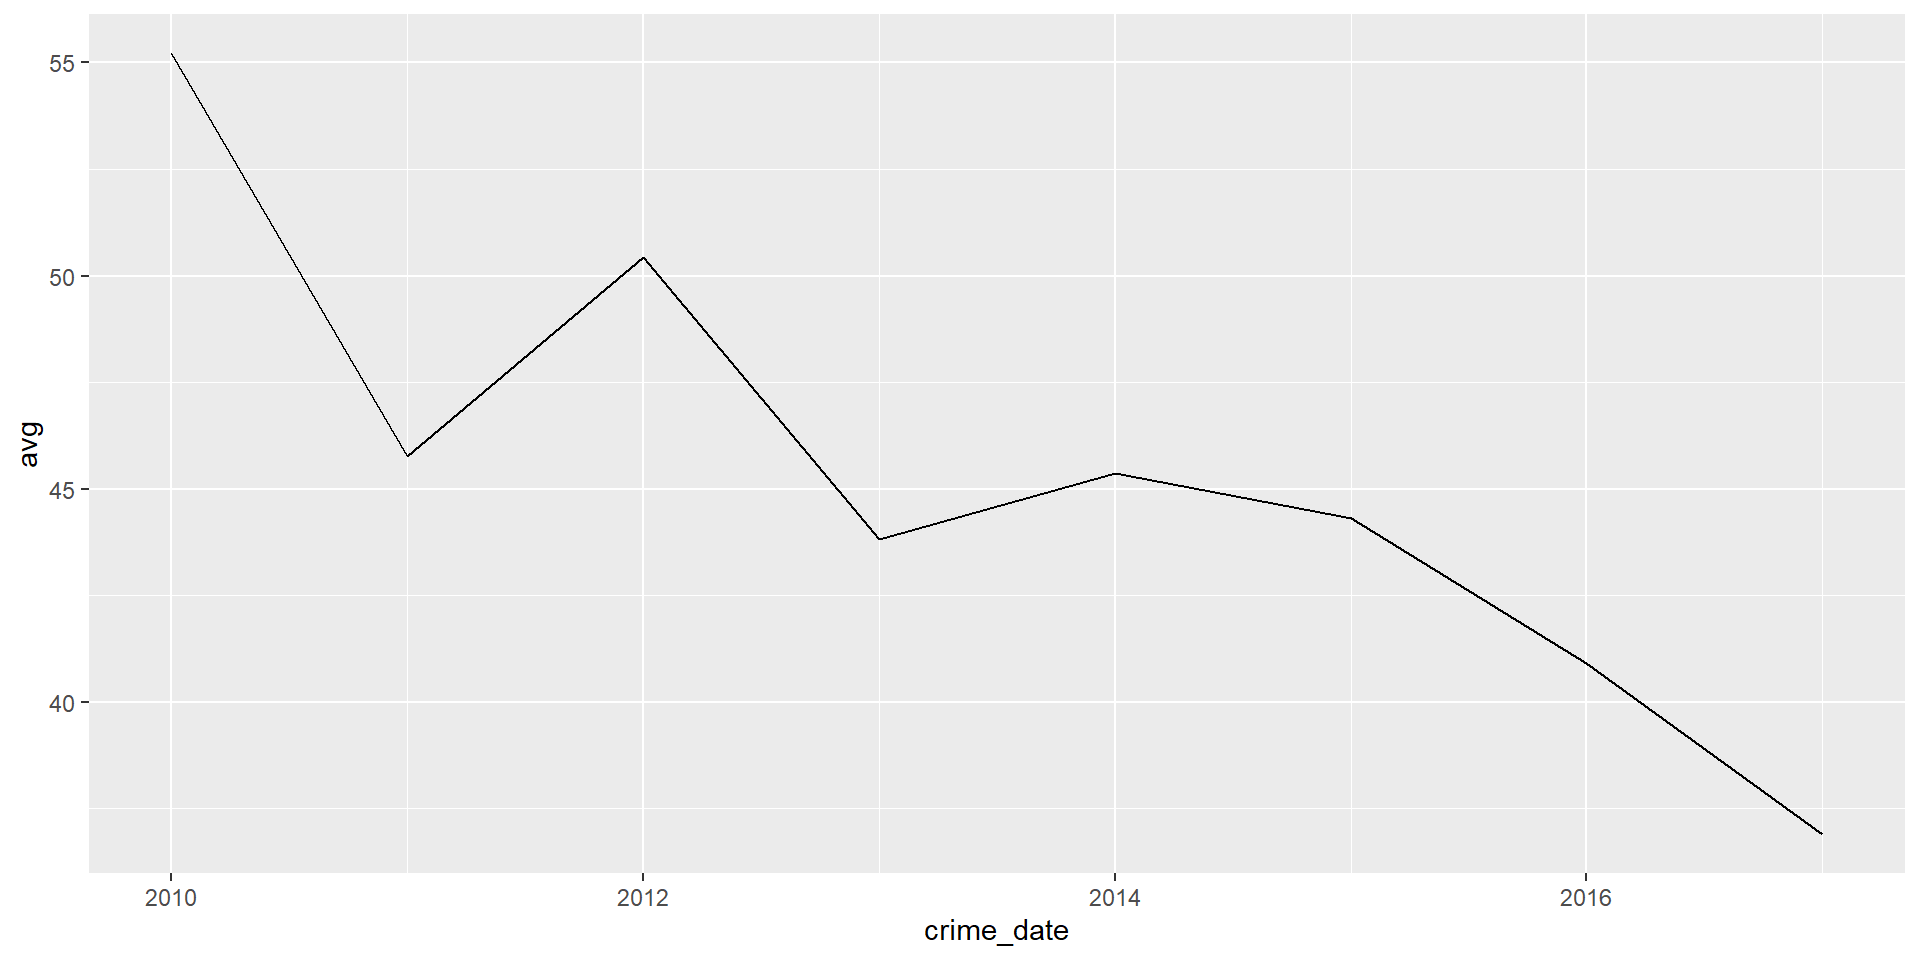
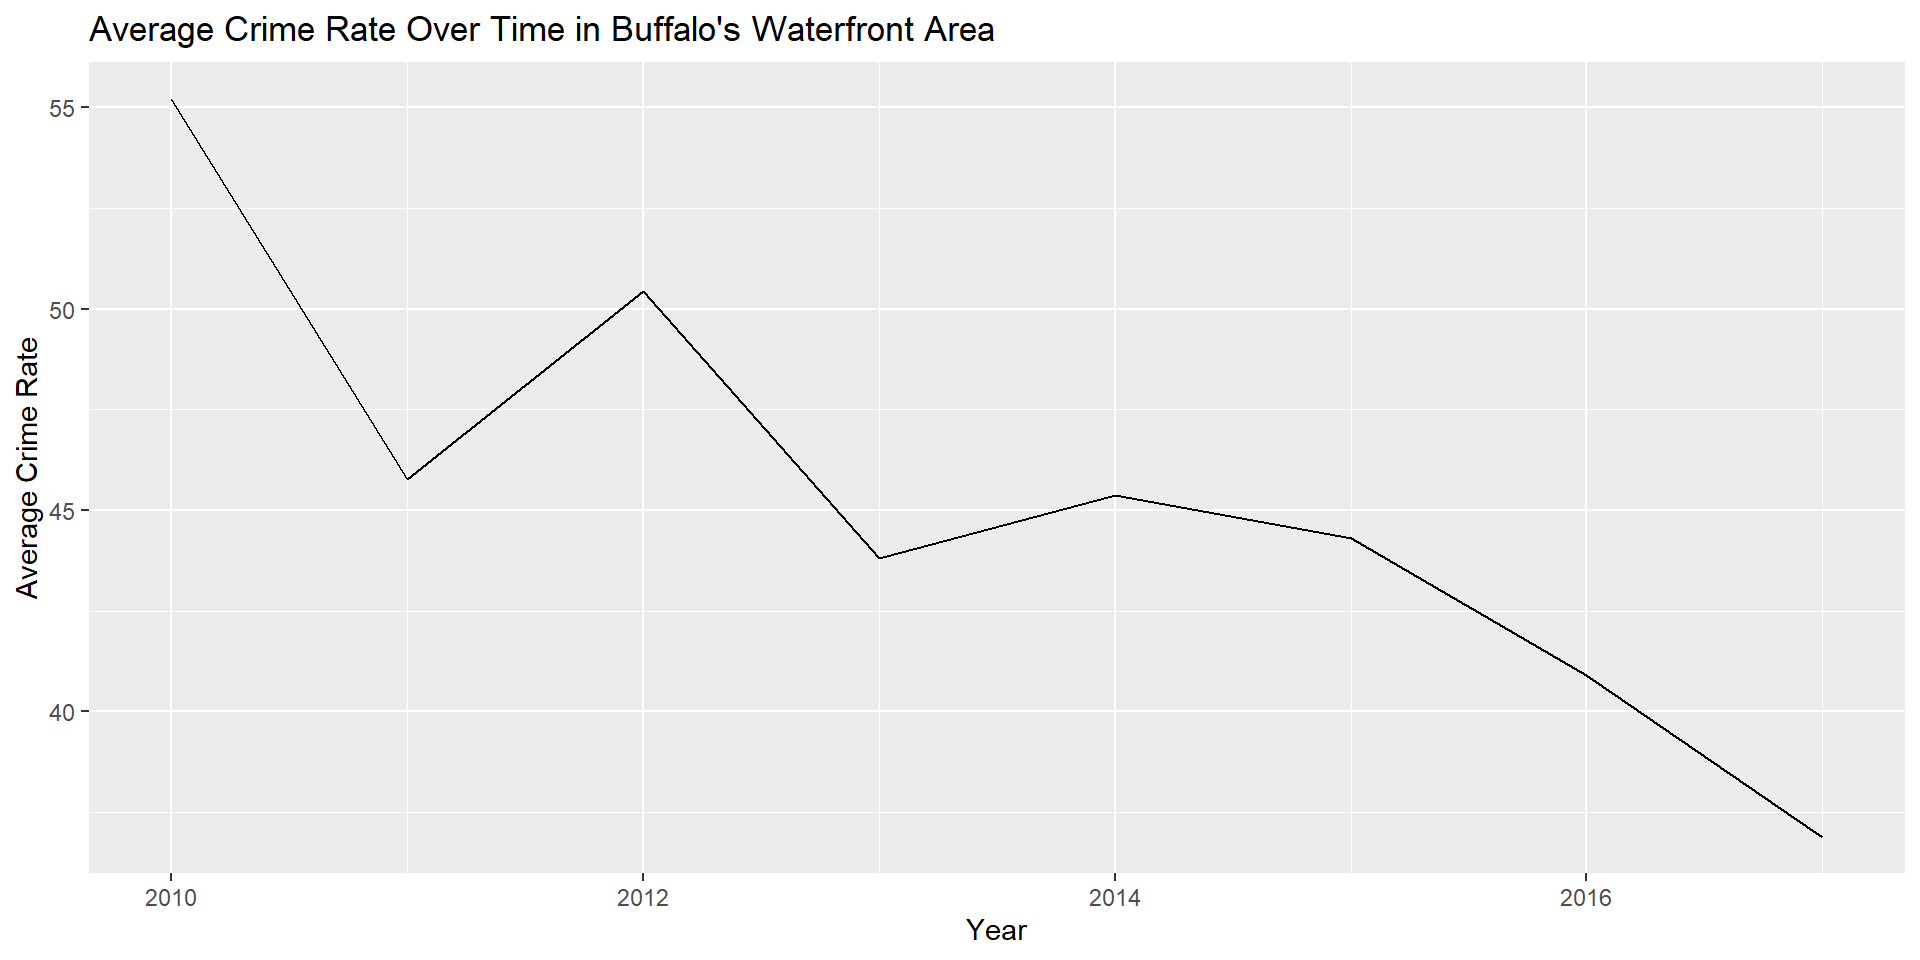
Final project 12/14

diff --git a/docs/index.html b/docs/index.html
@@ -378,13 +378,13 @@ div.tocify {
 
 <div id="introduction" class="section level1">
 <h1>Introduction</h1>
-<p>Crime rates have decreased for all types of crime since the 1990s, although most considerably for violent crimes (Papachristos 2013). However, crime rates vary depending on the social composition of a neighborhood. Disadvantaged neighborhoods are disproportionately low-income with weak social ties and high residential instability (Zuberi 2012). The concentration of poverty, violence, and high policing in disadvantaged neighborhoods hinder residents’ ability to form social cohesion and community organization, increasing residents’ risk of victimization and limiting social control (Van Wilsem, Wittebrood, De Graaf 2006). Disadvantaged neighborhoods are also often policed at higher rates than their counterparts. The high poverty and policing combined with lack of social control and low social cohesion in disadvantaged neighborhoods leads to increased crime rates in these areas (Van Wilsem et al. 2006). Violent crime, in particular, is more prevalent in urban, disadvantaged neighborhoods (Friedson and Sharkey 2015). However, few studies have examined whether the type of crimes committed in disadvantaged neighborhoods are different from those committed in less disadvantaged areas. By examining census data and crime data from Buffalo, New York I want to answer three questions: 1) Are the types of crime being committed in low-income census tracts different from those in higher income tracts? 2) Have census tracts witnessed an overall decrease in crime between 2010 and 2017? 3) If so, does the decrease differ by crime type? To answer my questions, I will compare crime rates by type of crime incident between 2010 to crime rates in 2017. I measure neighborhood disadvantage using census tract data in Buffalo, New York on median income from the 2010 and 2017 ACS. Crime data comes from the public PenData Buffalo and can be broken into five categories: assault, breaking and entering, homicide, sexual offenses, and theft. I predict that, although crime rates for all types are likely higher in lower income neighborhoods, the difference is likely greater for violent crimes. I also hypothesize that there will be a decrease in crimes rates between 2010 and 2017 for all tracts, but more noticeably for violent crimes, as opposed to property crimes.</p>
+<p>Crime rates have decreased for all types of crime since the 1990s, although most considerably for violent crimes (Papachristos 2013). However, crime rates vary depending on the social composition of a neighborhood. Disadvantaged neighborhoods are disproportionately low-income with weak social ties and high residential instability, attributes often correlated with crime (Zuberi 2012). The concentration of poverty, violence, and high policing in disadvantaged neighborhoods hinders residents’ ability to form social cohesion and community organization, increasing residents’ risk of victimization (Van Wilsem, Wittebrood, De Graaf 2006). Violent crime, in particular, is more prevalent in urban, disadvantaged neighborhoods (Friedson and Sharkey 2015). However, few studies have examined whether the relationship between neighborhood disadvantage and crime varies by crime type. It is also well known that neighborhoods with a high immigrant population have lower crime rates (Adelman 2019). Buffalo’s Waterfront Area has a high immigrant population and has undergone recent developments aimed at resurgence (Adelman 2019). Elmwood Village has also seen continuous development. In order to determine whether recent developments infuence crime rates, I look at crime trends for these two areas as well as the entire city of Buffalo. By examining census data and crime data I answer four questions: 1) Has crime decreased in Buffalo, NY since 2010? 2) If so, does the decrease differ by crime type? 3) Has this decrease occurred more substantially in areas with a high immigrant population or areas that have undergone recent development (Elmwood Village and Waterfront Area)? 4) Does the relationship between median income and crime vary by crime type? To answer my questions, I compare crime rates by type of crime incident between 2010 to crime rates in 2017. I measure neighborhood disadvantage using census tract data in Buffalo, New York on median income from the 2010 and 2017 ACS. Crime data comes from OpenData Buffalo and can be broken into five categories: assault, breaking and entering, homicide, sexual offenses, and theft. I hypothesize that there will be a decrease in crime rates from 2010 to 2017 for all tracts, but more noticeably for violent crimes, as opposed to property crimes and that this decrease will be more substantial when examining developed neighborhoods. I also predict that the relationship between median income and crime will be greater for violent crimes.</p>
 </div>
 <div id="materials-and-methods" class="section level1">
 <h1>Materials and methods</h1>
 <ol style="list-style-type: decimal">
 <li>Load required packages</li>
-<li>Download crime data from buffalony.gov and 2010 and 2017 ACS estimates for income data in Erie County</li>
+<li>Download crime data from OpenDataBuffalo and 2010 and 2017 ACS estimates for income data in Erie County</li>
 <li>Clean and join data</li>
 <li>Run regression on types of crime and income level</li>
 <li>Create figures</li>
@@ -852,27 +852,25 @@ summary(Hom2017_reg)</code></pre>
 </div>
 <div id="results" class="section level1">
 <h1>Results</h1>
-<div id="plot-median-income-and-crime-per-capita-for-2010-and-2017" class="section level3">
-<h3>Plot median income and crime per capita for 2010 and 2017</h3>
-<p>This figure is a map of overall crime frequency over time by type</p>
+<p>##5. Create figures Plot median income and crime per capita for 2010 and 2017</p>
 <pre class="r"><code>ggplot(crimeALLplot) + geom_line(aes(x = crime_date, y = total, color = parent_incident_type)) + 
-  labs(x = &quot;Year&quot;, y = &quot;Total crime&quot;, color = &quot;Crime type&quot;)</code></pre>
+  labs(x = &quot;Year&quot;, y = &quot;Total crime&quot;, color = &quot;Crime type&quot;, title = &quot;Crime Frequency Over Time&quot;)</code></pre>
 <div class="figure">
 <img src="index_files/figure-html/unnamed-chunk-12-1.png" alt="Crime Over Time" width="960" />
 <p class="caption">
 Crime Over Time
 </p>
 </div>
-<p>This figure is a map of the average crime rate for all types betweeen 2010 and 2017 in Elmwood Village</p>
-<pre class="r"><code>ggplot(elmwoodavg) + geom_line(aes(x = crime_date, y = avg))</code></pre>
+<pre class="r"><code>ggplot(elmwoodavg) + geom_line(aes(x = crime_date, y = avg)) + 
+  labs(x = &quot;Year&quot;, y = &quot;Average Crime Rate&quot;, title = &quot;Average Crime Rate Over Time in Elmwood Village&quot;)</code></pre>
 <div class="figure">
 <img src="index_files/figure-html/unnamed-chunk-13-1.png" alt="Average crime between 2010 and 2017 in Elmwood Village" width="960" />
 <p class="caption">
 Average crime between 2010 and 2017 in Elmwood Village
 </p>
 </div>
-<p>This figure is a map of average crime rate for all types between 2010 and 2017 in Buffalo’s Waterfront Area.</p>
-<pre class="r"><code>ggplot(waterfrontavg) + geom_line(aes(x = crime_date, y = avg))</code></pre>
+<pre class="r"><code>ggplot(waterfrontavg) + geom_line(aes(x = crime_date, y = avg)) + 
+  labs(x = &quot;Year&quot;, y = &quot;Average Crime Rate&quot;, title = &quot;Average Crime Rate Over Time in Buffalo&#39;s Waterfront Area&quot;)</code></pre>
 <div class="figure">
 <img src="index_files/figure-html/unnamed-chunk-14-1.png" alt="Average crime between 2010 and 2017 in Buffalo's Waterfront Area" width="960" />
 <p class="caption">
@@ -881,11 +879,11 @@ Average crime between 2010 and 2017 in Buffalo’s Waterfront Area
 </div>
 <p>This figure is a map of median income and average crime per capita for 2010 by census tract in Buffalo, NY</p>
 <pre class="r"><code>mapinc10 &lt;- ggplot(cpp2010) + geom_sf(aes(fill = MedianInc)) +
-  scale_fill_viridis_c() + labs(fill = &quot;Median Income&quot;) +
+  scale_fill_viridis_c() + labs(fill = &quot;Median Income&quot;, title = &quot;Median Income 2010&quot;) +
   theme(panel.background = element_blank())
 
 mapcrime10 &lt;- ggplot(cpp2010) + geom_sf(aes(fill = AvgCPC)) + 
-  scale_fill_viridis_c() + labs(fill = &quot;Average CPC&quot;) +
+  scale_fill_viridis_c() + labs(fill = &quot;Average CPC&quot;, title = &quot;Crime Per Capita 2010&quot;) +
   theme(panel.background = element_blank())
 
 grid.arrange(mapinc10, mapcrime10, nrow = 1)</code></pre>
@@ -897,7 +895,7 @@ grid.arrange(mapinc10, mapcrime10, nrow = 1)</code></pre>
 </div>
 <p>This figure is a map of median income and average crime per capita for 2017 by census tract in Buffalo, NY</p>
 <pre class="r"><code>mapinc17 &lt;- ggplot(cpp2017) + geom_sf(aes(fill = MedianInc)) +
-  scale_fill_viridis_c() + labs(fill = &quot;Median Income&quot;) + 
+  scale_fill_viridis_c() + labs(fill = &quot;Median Income&quot;, title = &quot;Median Income 2017&quot;) + 
   theme(panel.background = element_blank())
 
 mapcrime17 &lt;- ggplot(cpp2017) + geom_sf(aes(fill = AvgCPC)) + 
@@ -911,82 +909,130 @@ grid.arrange(mapinc17, mapcrime17, nrow = 1)</code></pre>
 2017 Income and Crime
 </p>
 </div>
-</div>
 <div id="plot-crime-by-type" class="section level2">
 <h2>Plot crime by type</h2>
-<p>Homicide 2010</p>
 <pre class="r"><code>hom2010map &lt;- ggplot(avghom2010) + geom_sf(aes(fill = AvgHom)) + scale_fill_viridis_c() + 
   theme(panel.background = element_blank()) +
-  labs(fill = &quot;Avg Homicide PC&quot;)
+  labs(fill = &quot;Avg Homicide PC&quot;, title = &quot;Homicide Per Capita 2010&quot;)
 
 grid.arrange(mapinc10, hom2010map, nrow = 1)</code></pre>
-<p><img src="index_files/figure-html/unnamed-chunk-17-1.png" width="960" /></p>
-<p>Homicide 2017</p>
+<div class="figure">
+<img src="index_files/figure-html/unnamed-chunk-17-1.png" alt="Homicide 2010" width="960" />
+<p class="caption">
+Homicide 2010
+</p>
+</div>
 <pre class="r"><code>hom2017map &lt;- ggplot(avghom2017) + geom_sf(aes(fill = AvgHom)) + scale_fill_viridis_c() +
   theme(panel.background = element_blank()) +
-  labs(fill = &quot;Avg Homicide PC&quot;)
+  labs(fill = &quot;Avg Homicide PC&quot;, title = &quot;Homicide Per Capita 2017&quot;)
 
 grid.arrange(mapinc17, hom2017map, nrow = 1)</code></pre>
-<p><img src="index_files/figure-html/unnamed-chunk-18-1.png" width="960" /></p>
-<p>Assault2010</p>
+<div class="figure">
+<img src="index_files/figure-html/unnamed-chunk-18-1.png" alt="Homicide 2017" width="960" />
+<p class="caption">
+Homicide 2017
+</p>
+</div>
 <pre class="r"><code>assault2010map &lt;- ggplot(avgAss2010) + geom_sf(aes(fill = AvgAssault)) + scale_fill_viridis_c() + 
   theme(panel.background = element_blank()) +
-  labs(fill = &quot;Avg Assault PC&quot;)
+  labs(fill = &quot;Avg Assault PC&quot;, title = &quot;Assault Per Capita 2010&quot;)
 
 grid.arrange(mapinc10, assault2010map, nrow = 1)</code></pre>
-<p><img src="index_files/figure-html/unnamed-chunk-19-1.png" width="960" /> Assault2017</p>
+<div class="figure">
+<img src="index_files/figure-html/unnamed-chunk-19-1.png" alt="Assault2010" width="960" />
+<p class="caption">
+Assault2010
+</p>
+</div>
 <pre class="r"><code>assault2017map &lt;- ggplot(avgAss2017) + geom_sf(aes(fill = AvgAssault)) + scale_fill_viridis_c() +
   theme(panel.background = element_blank()) +
-  labs(fill = &quot;Avg Assault PC&quot;)
+  labs(fill = &quot;Avg Assault PC&quot;, title = &quot;Assault Per Capita 2017&quot;)
 
 grid.arrange(mapinc17, assault2017map, nrow = 1)</code></pre>
-<p><img src="index_files/figure-html/unnamed-chunk-20-1.png" width="960" /></p>
-<p>Breaking &amp; Entering 2010</p>
+<div class="figure">
+<img src="index_files/figure-html/unnamed-chunk-20-1.png" alt="Assault2017" width="960" />
+<p class="caption">
+Assault2017
+</p>
+</div>
 <pre class="r"><code>be2010map &lt;- ggplot(avgBE2010) + geom_sf(aes(fill = AvgBreaking_entering)) + scale_fill_viridis_c() + 
   theme(panel.background = element_blank()) +
-  labs(fill = &quot;Avg Break&amp;Ent. PC&quot;)
+  labs(fill = &quot;Avg Break&amp;Ent. PC&quot;, title = &quot;Breaking &amp; Entering Per Capita 2010&quot;)
 
 grid.arrange(mapinc10, be2010map, nrow = 1)</code></pre>
-<p><img src="index_files/figure-html/unnamed-chunk-21-1.png" width="960" /></p>
-<p>Breaking &amp; Entering 2017</p>
+<div class="figure">
+<img src="index_files/figure-html/unnamed-chunk-21-1.png" alt="Breaking &amp; Entering 2010" width="960" />
+<p class="caption">
+Breaking &amp; Entering 2010
+</p>
+</div>
 <pre class="r"><code>be2017map &lt;- ggplot(avgBE2017) + geom_sf(aes(fill = AvgBreaking_entering)) + scale_fill_viridis_c() + 
   theme(panel.background = element_blank()) +
-  labs(fill = &quot;Avg Break&amp;Ent. PC&quot;)
+  labs(fill = &quot;Avg Break&amp;Ent. PC&quot;, title = &quot;Breaking &amp; Entering Per Capita 2017&quot;)
 
-grid.arrange(mapinc10, be2017map, nrow = 1)</code></pre>
-<p><img src="index_files/figure-html/unnamed-chunk-22-1.png" width="960" /> Theft 2010</p>
+grid.arrange(mapinc17, be2017map, nrow = 1)</code></pre>
+<div class="figure">
+<img src="index_files/figure-html/unnamed-chunk-22-1.png" alt="Breaking &amp; Entering 2017" width="960" />
+<p class="caption">
+Breaking &amp; Entering 2017
+</p>
+</div>
 <pre class="r"><code>theft2010map &lt;- ggplot(avgTheft2010) + geom_sf(aes(fill = AvgTheft)) + scale_fill_viridis_c() + 
   theme(panel.background = element_blank()) +
-  labs(fill = &quot;Avg Theft PC&quot;)
+  labs(fill = &quot;Avg Theft PC&quot;, title = &quot;Theft Per Capita 2010&quot;)
 
 grid.arrange(mapinc10, theft2010map, nrow = 1)</code></pre>
-<p><img src="index_files/figure-html/unnamed-chunk-23-1.png" width="960" /> Theft 2017</p>
+<div class="figure">
+<img src="index_files/figure-html/unnamed-chunk-23-1.png" alt="Theft 2010" width="960" />
+<p class="caption">
+Theft 2010
+</p>
+</div>
 <pre class="r"><code>theft2017map &lt;- ggplot(avgTheft2017) + geom_sf(aes(fill = AvgTheft)) + scale_fill_viridis_c() + 
   theme(panel.background = element_blank()) +
-  labs(fill = &quot;Avg Theft PC&quot;)
+  labs(fill = &quot;Avg Theft PC&quot;, title = &quot;Theft Per Capita 2010&quot;)
 
 grid.arrange(mapinc17, theft2017map, nrow = 1)</code></pre>
-<p><img src="index_files/figure-html/unnamed-chunk-24-1.png" width="960" /> Sexual_offenses 2010</p>
+<div class="figure">
+<img src="index_files/figure-html/unnamed-chunk-24-1.png" alt="Theft 2017" width="960" />
+<p class="caption">
+Theft 2017
+</p>
+</div>
 <pre class="r"><code>so2010map &lt;- ggplot(avgSO2017) + geom_sf(aes(fill = avgSO)) + scale_fill_viridis_c() + 
   theme(panel.background = element_blank()) +
-  labs(fill = &quot;Avg Sex. Off. PC&quot;)
+  labs(fill = &quot;Avg Sex. Off. PC&quot;, title  = &quot;Sexual Offenses Per Capita 2010&quot;)
 
 grid.arrange(mapinc10, so2010map, nrow = 1)</code></pre>
-<p><img src="index_files/figure-html/unnamed-chunk-25-1.png" width="960" /></p>
-<p>Sexual_offenses 2017</p>
+<div class="figure">
+<img src="index_files/figure-html/unnamed-chunk-25-1.png" alt="Sexual Offenses 2010" width="960" />
+<p class="caption">
+Sexual Offenses 2010
+</p>
+</div>
 <pre class="r"><code>so2017map &lt;- ggplot(avgSO2017) + geom_sf(aes(fill = avgSO)) + scale_fill_viridis_c() + 
   theme(panel.background = element_blank()) +
-  labs(fill = &quot;Avg Sex. Off. PC&quot;)
+  labs(fill = &quot;Avg Sex. Off. PC&quot;, title  = &quot;Sexual Offenses Per Capita 2017&quot;)
 
 grid.arrange(mapinc17, so2017map, nrow = 1)</code></pre>
-<p><img src="index_files/figure-html/unnamed-chunk-26-1.png" width="960" /> # Conclusions Overall, it does not seem like median income alone has a large impact on crime. However, the relationship between crime and median income is higher when examining violent crimes, particularly in 2017. Median income was statistically correlated with homicide, assault, and breaking &amp; entering, but not theft or sexual offenses for 2017.</p>
+<div class="figure">
+<img src="index_files/figure-html/unnamed-chunk-26-1.png" alt="Sexual Offenses 2017" width="960" />
+<p class="caption">
+Sexual Offenses 2017
+</p>
 </div>
+</div>
+</div>
+<div id="conclusions" class="section level1">
+<h1>Conclusions</h1>
+<p>Overall, crime has decreased in Buffalo, NY. Contrary to my hypothesis, crime has decreased most steadily for theft and breaking and entering, as opposed to violent crimes. By examining two areas of Buffalo (Elmwood Village and the Waterfront Area) that have undergone recent development aimed at improving neighborhood conditions, it is evident that these areas have experienced a substantial decrease in crime since 2010, likely as a result of these developments, as well as the high immigrant population (Adelman et al. 2019).There is a moderate relationship between crime and median income. Median income is significantly associated with assault, breaking and entering, sexual offenses, and homicide in 2010 and assault, breaking and entering, and homicide in 2017. In support of my hypothesis, median income has a higher correlation with violent crimes than property crimes for both 2010 and 2017. The relationship between income and crime appears to be higher when examining 2017 data, possibly due to increasing gentrification and thus concentrated disadvantage in these areas, although more research needs to be done to determine if this is the case. In summary, median income plays a role in the level of crime in an area, but there are likely other social conditions as well influencing crime rates in Buffalo, NY.</p>
 </div>
 <div id="references" class="section level1">
 <h1>References</h1>
-<p><a href="https://data.buffalony.gov/Public-Safety/Crime-Incidents/d6g9-xbgu" class="uri">https://data.buffalony.gov/Public-Safety/Crime-Incidents/d6g9-xbgu</a></p>
-<p>Friedson, Michael and Patrick Sharkey. 2015. “Violence and Neighborhood Disadvantage after the Crime Decline.” <em>The American Academy of Political &amp; Social Science</em> 660.</p>
+<p>OpenDataBuffalo. <a href="https://data.buffalony.gov/Public-Safety/Crime-Incidents/d6g9-xbgu" class="uri">https://data.buffalony.gov/Public-Safety/Crime-Incidents/d6g9-xbgu</a></p>
+<p>Adelman, Robert M., Aysegul Balta Ozgen, and Watoii Rabii. 2019. “Buffalo’s West Side Story: Migration, Gentrification, and Neighborhood Change.” <em>City &amp; Community</em> 1-22. Friedson, Michael and Patrick Sharkey. 2015. “Violence and Neighborhood Disadvantage after the Crime Decline.” <em>The American Academy of Political &amp; Social Science</em> 660.</p>
 <p>Papachristos, Andrew V. 2013. “48 Years of Crime in Chicago: A Descriptive Analysis of Serious Crime Trends from 1965 to 2013.” <em>Institution for Social and Policy Studies</em>.</p>
+<p>U.S. Census Bureau 2010, 2017….</p>
 <p>Van Wilsem, Johan. Karin Whitebrood, Nan Dirk De Graaf. 2006. “Socioeconomic Dynamics of Neighborhoods and the Risk of Crime Victimization: A Multilevel Study of Improving, Declining, and Stable Areas in the Netherlands.” <em>Social Problems</em> 53(2):226-247.</p>
 <p>Zuberi, Anita. 2012. “Neighborhood Poverty and Children’s Exposure to Danger: Examining Gender Differences in Impacts of the Moving to Opportunity Experiment.” <em>Social Science Research</em> 41:788-801.</p>
 </div>
